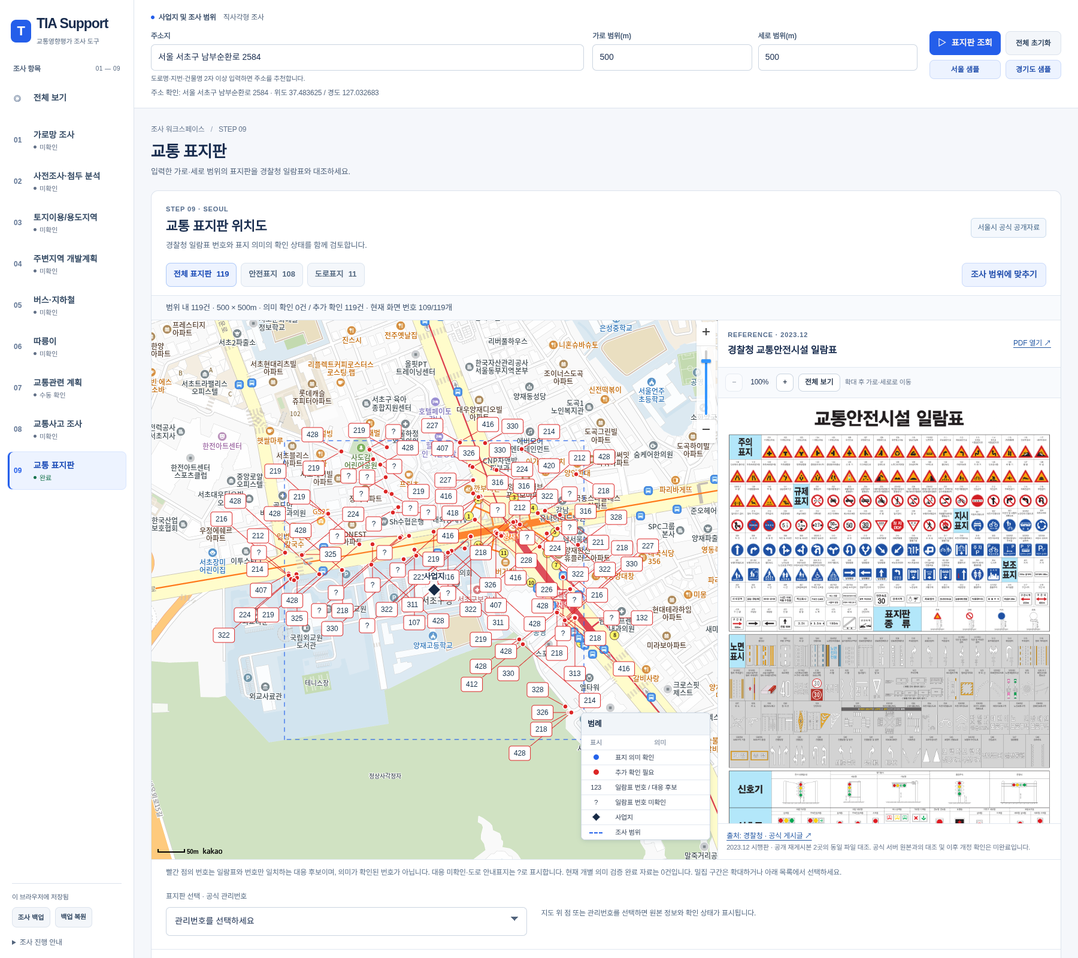
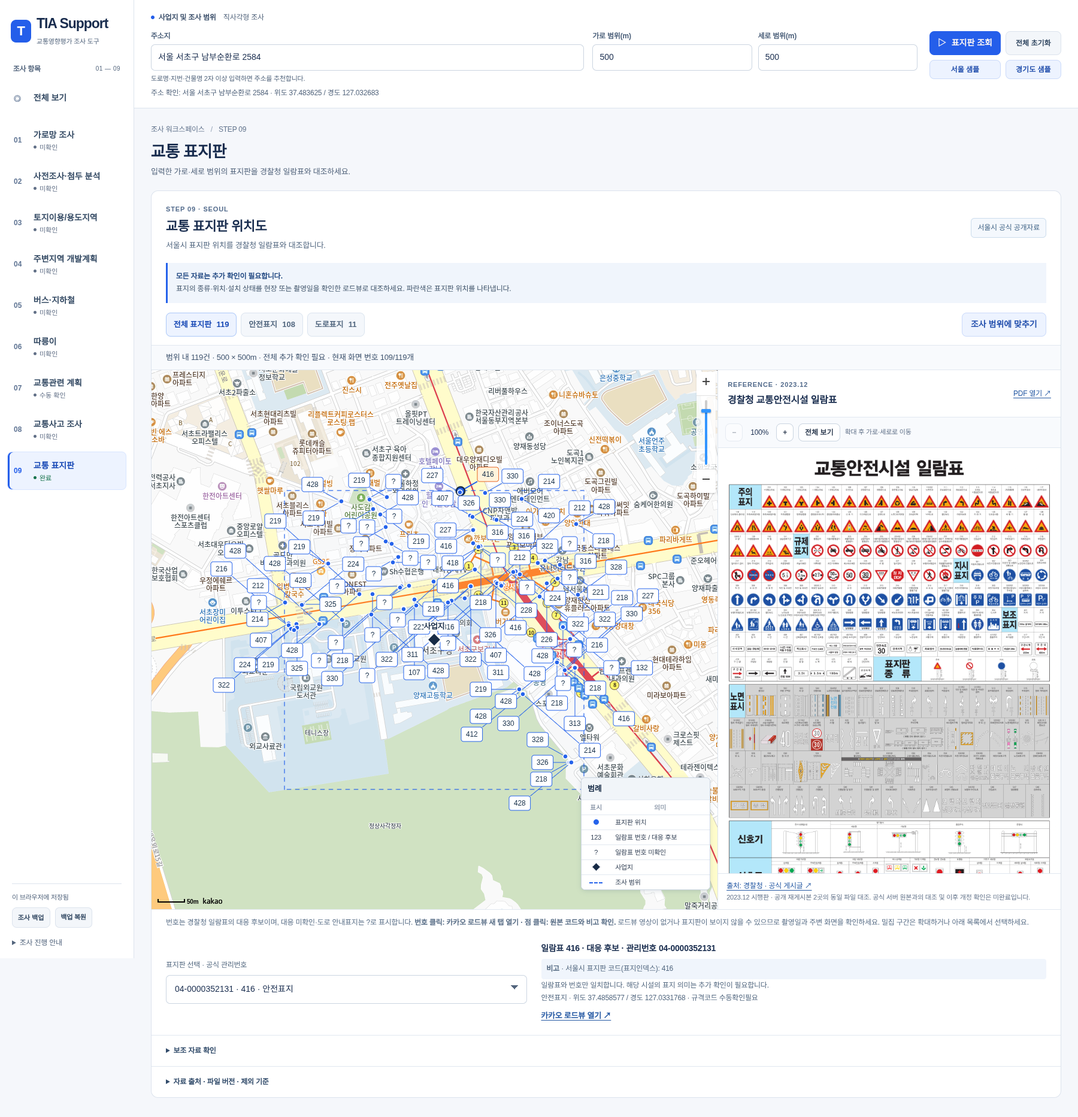
Unify Step 9 sign styling and add Seoul code notes and Roadview links

diff --git a/components/TrafficSignsStep.jsx b/components/TrafficSignsStep.jsx
@@ -41,7 +41,6 @@ export default function TrafficSignsStep({ visible, siteLocation, width, height,
   }, [visible, key, scopeError, siteLocation.lat, siteLocation.lng, width, height, onPhase]);
 
   const points = useMemo(() => (current?.points || []).filter(p => source === 'all' || p.source === source).map(p => classifySign(p)), [current, source]);
-  const verifiedCount = points.filter(p => p.verified).length;
   const selected = points.find(p => p.id === selectedId);
   useEffect(() => {
     if (!visible || !current || !container.current) { setScreen(null); return; }
@@ -85,28 +84,29 @@ export default function TrafficSignsStep({ visible, siteLocation, width, height,
     if (point && mapRef.current && window.kakao) mapRef.current.panTo(new window.kakao.maps.LatLng(point.lat, point.lng));
   };
   return <section className={`panel step-section traffic-signs ${visible ? '' : 'is-hidden'}`} aria-label="STEP 9 교통 표지판">
-    <div className="signs-heading"><div><p className="eyebrow">STEP 09 · SEOUL</p><h2>교통 표지판 위치도</h2><p>경찰청 일람표 번호와 표지 의미의 확인 상태를 함께 검토합니다.</p></div><span className="signs-region">서울시 공식 공개자료</span></div>
+    <div className="signs-heading"><div><p className="eyebrow">STEP 09 · SEOUL</p><h2>교통 표지판 위치도</h2><p>서울시 표지판 위치를 경찰청 일람표와 대조합니다.</p></div><span className="signs-region">서울시 공식 공개자료</span></div>
+    <p className="signs-review-notice"><strong>모든 자료는 추가 확인이 필요합니다.</strong> 표지의 종류·위치·설치 상태를 현장 또는 촬영일을 확인한 로드뷰로 대조하세요. 파란색은 표지판 위치를 나타냅니다.</p>
     <div className="signs-toolbar">
       <div className="signs-filters" role="group" aria-label="표지판 종류">{[['all', '전체 표지판'], ['S', '안전표지'], ['R', '도로표지']].map(([value, label]) => <button type="button" key={value} aria-pressed={source === value} onClick={() => { setSource(value); setSelectedId(''); }}>{label}{current && <span>{current.points.filter(p => value === 'all' || p.source === value).length.toLocaleString('ko-KR')}</span>}</button>)}</div>
       <button type="button" className="secondary" disabled={!screen} onClick={() => fit.current?.()}>조사 범위에 맞추기</button>
     </div>
-    <div className="signs-status" role="status">{scopeError || error || (!current ? '서울 표지판을 조회하고 있습니다…' : `범위 내 ${points.length.toLocaleString('ko-KR')}건 · ${current.scope.width.toLocaleString('ko-KR')} × ${current.scope.height.toLocaleString('ko-KR')}m · 의미 확인 ${verifiedCount.toLocaleString('ko-KR')}건 / 추가 확인 ${(points.length - verifiedCount).toLocaleString('ko-KR')}건`)}{current && screen && ` · 현재 화면 번호 ${layout.labels.length}/${layout.points.length}개`}</div>
+    <div className="signs-status" role="status">{scopeError || error || (!current ? '서울 표지판을 조회하고 있습니다…' : `범위 내 ${points.length.toLocaleString('ko-KR')}건 · ${current.scope.width.toLocaleString('ko-KR')} × ${current.scope.height.toLocaleString('ko-KR')}m · 전체 추가 확인 필요`)}{current && screen && ` · 현재 화면 번호 ${layout.labels.length}/${layout.points.length}개`}</div>
     <div className="signs-workbench">
     <div className="signs-map-frame">
       <div ref={container} className="signs-map" aria-label="서울 교통 표지판 지도" />
       {screen && current && <svg className="signs-overlay" width={screen.width} height={screen.height} aria-label="경찰청 일람표 번호와 인출선">
         {layout.labels.map(p => <line key={p.id} x1={p.x} y1={p.y} x2={Math.max(p.box.x, Math.min(p.x, p.box.x + p.box.w))} y2={Math.max(p.box.y, Math.min(p.y, p.box.y + p.box.h))} stroke={p.color} strokeWidth={p.id === selectedId ? 2 : 1} />)}
-        {layout.points.map(p => <circle key={p.id} data-sign-id={p.id} data-verified={p.verified} cx={p.x} cy={p.y} r={p.id === selectedId ? 7 : 4} fill={p.color} stroke={p.id === selectedId ? '#172b46' : 'white'} strokeWidth={p.id === selectedId ? 2.5 : 1.5} className="signs-dot" onClick={() => setSelectedId(p.id)}><title>{p.label} · {p.verified ? '의미 확인' : '추가 확인 필요'} · 관리번호 {p.managementId}</title></circle>)}
-        {layout.labels.map(p => <g key={p.id} className="signs-callout" onClick={() => setSelectedId(p.id)}>
+        {layout.points.map(p => <circle key={p.id} data-sign-id={p.id} cx={p.x} cy={p.y} r={p.id === selectedId ? 7 : 4} fill={p.color} stroke={p.id === selectedId ? '#172b46' : 'white'} strokeWidth={p.id === selectedId ? 2.5 : 1.5} className="signs-dot" onClick={() => setSelectedId(p.id)}><title>{p.label} · 추가 확인 필요 · {p.sourceCodeRemark} · 관리번호 {p.managementId}</title></circle>)}
+        {layout.labels.map(p => <a key={p.id} className="signs-callout" href={p.roadviewUrl || undefined} target="_blank" rel="noopener noreferrer" aria-label={`${p.label} · 관리번호 ${p.managementId} 카카오 로드뷰 새 탭에서 열기`} onClick={() => setSelectedId(p.id)}>
+          <title>{p.sourceCodeRemark} · 클릭하면 카카오 로드뷰를 새 탭에서 엽니다.</title>
           <rect x={p.box.x} y={p.box.y} width={p.box.w} height={p.box.h} rx="4" fill={p.id === selectedId ? '#eef2f7' : '#fff'} stroke={p.id === selectedId ? '#172b46' : p.color} />
           <text x={p.box.x + p.box.w / 2} y={p.box.y + 16} textAnchor="middle" fill="#18314b">{p.label}</text>
-        </g>)}
+        </a>)}
         <g transform={`translate(${screen.site.x},${screen.site.y})`}><path d="M0 -12L12 0L0 12L-12 0Z" fill="#172b46" stroke="white" strokeWidth="3" /><text y="-18" textAnchor="middle" className="signs-site-label">사업지</text></g>
       </svg>}
       {(!screen || mapError) && <div className="signs-map-message"><strong>{mapError ? '지도 연결 확인이 필요합니다' : current ? '지도를 불러오고 있습니다' : '주소와 조사 범위를 확인해 주세요'}</strong><p>{mapError || scopeError || error || '서울시 표지판 위치를 큰 지도에서 확인합니다.'}</p>{mapError && <button type="button" onClick={() => setRetryMap(v => v + 1)}>지도 다시 연결</button>}</div>}
       <div className="signs-map-legend"><table><caption>범례</caption><thead><tr><th scope="col">표시</th><th scope="col">의미</th></tr></thead><tbody>
-        <tr><td><i className="signs-confirmed" aria-label="파란 점" /></td><td>표지 의미 확인</td></tr>
-        <tr><td><i className="signs-unconfirmed" aria-label="빨간 점" /></td><td>추가 확인 필요</td></tr>
+        <tr><td><i className="signs-location" aria-label="파란 점" /></td><td>표지판 위치</td></tr>
         <tr><td>123</td><td>일람표 번호 / 대응 후보</td></tr>
         <tr><td>?</td><td>일람표 번호 미확인</td></tr>
         <tr><td><i className="signs-site" /></td><td>사업지</td></tr>
@@ -115,9 +115,14 @@ export default function TrafficSignsStep({ visible, siteLocation, width, height,
     </div>
     {visible && <PoliceSignChart />}
     </div>
-    <p className="signs-hint">빨간 점의 번호는 일람표와 번호만 일치하는 대응 후보이며, 의미가 확인된 번호가 아닙니다. 대응 미확인·도로 안내표지는 ?로 표시합니다. 현재 개별 의미 검증 완료 자료는 0건입니다. 밀집 구간은 확대하거나 아래 목록에서 선택하세요.</p>
+    <p className="signs-hint">번호는 경찰청 일람표의 대응 후보이며, 대응 미확인·도로 안내표지는 ?로 표시합니다. <strong>번호 클릭: 카카오 로드뷰 새 탭 열기 · 점 클릭: 원본 코드와 비고 확인.</strong> 로드뷰 영상이 없거나 표지판이 보이지 않을 수 있으므로 촬영일과 주변 화면을 확인하세요. 밀집 구간은 확대하거나 아래 목록에서 선택하세요.</p>
     {current && <div className="signs-detail"><label><span>표지판 선택 · 공식 관리번호</span><select value={selected?.id || ''} onChange={e => choose(e.target.value)}><option value="">{points.length ? '관리번호를 선택하세요' : '범위 내 공개자료 없음'}</option>{points.map(p => <option value={p.id} key={p.id}>{p.managementId} · {p.label} · {SOURCE_NAMES[p.source]}</option>)}</select></label>
-      <div aria-live="polite">{selected ? <><strong>{selected.policeCode ? `일람표 ${selected.policeCode}${selected.verified ? ' · 의미 확인' : ' · 대응 후보'}` : '수동확인필요'} · 관리번호 {selected.managementId}</strong><p>{selected.reason}</p><p>{SOURCE_NAMES[selected.source]} · 위도 {selected.lat} / 경도 {selected.lng}</p><p>{selected.source === 'S' ? `표지인덱스 ${selected.sourceIndex || '수동확인필요'} · 규격코드 ${selected.specification || '수동확인필요'}` : `표지종별 ${selected.sourceIndex || '수동확인필요'}`}</p>{selected.evidence && <p>확인 근거: {selected.evidence}</p>}</> : <p>지도 위 점 또는 관리번호를 선택하면 원본 정보와 확인 상태가 표시됩니다.</p>}</div></div>}
+      <div aria-live="polite">{selected ? <><strong>{selected.policeCode ? `일람표 ${selected.policeCode} · 대응 후보` : '수동확인필요'} · 관리번호 {selected.managementId}</strong><p className="signs-source-remark"><b>비고</b> · {selected.sourceCodeRemark}</p><p>{selected.reason}</p><p>{SOURCE_NAMES[selected.source]} · 위도 {selected.lat} / 경도 {selected.lng}{selected.source === 'S' && ` · 규격코드 ${selected.specification || '수동확인필요'}`}</p>{selected.roadviewUrl && <a className="signs-roadview-link" href={selected.roadviewUrl} target="_blank" rel="noopener noreferrer">카카오 로드뷰 열기 ↗</a>}</> : <p>지도 위 점 또는 관리번호를 선택하면 서울시 원본 코드가 비고에 표시됩니다.</p>}</div></div>}
+    <details className="signs-provenance signs-secondary-sources"><summary>보조 자료 확인</summary>
+      <p><a href="https://www.data.go.kr/data/15028194/standard.do" target="_blank" rel="noopener noreferrer">전국도로안전표지 표준데이터 ↗</a> · 지역별 공개 안전표지 자료를 대조하는 참고 경로입니다. 서울 수록 범위와 개별 표지번호의 대응은 미확인입니다.</p>
+      <p><a href="https://www.safetyzone.go.kr/mapPtl/ptl/mapMain.do" target="_blank" rel="noopener noreferrer">경찰청 보호구역 통합관리시스템 ↗</a> · 어린이·노인·장애인 보호구역 시설 현황 참고용입니다. 공개 안내의 API는 보호구역 지정 현황이며 개별 표지판 API는 확인되지 않았습니다.</p>
+      <p>두 자료는 서울시 원본을 대체하거나 자동으로 합산하지 않습니다. 개별 시설의 위치·표지종류·기준일을 대조한 뒤 활용하세요.</p>
+    </details>
     {current && <details className="signs-provenance"><summary>자료 출처 · 파일 버전 · 제외 기준</summary>{current.manifest.sources.map(s => <p key={s.key}><a href={s.url} target="_blank" rel="noreferrer">{s.name}</a> · 서울특별시 · 파일 버전 {s.fileVersion} · 시설 기준일 미확인 · {s.license}</p>)}<p>안전표지 좌표 불일치 {current.manifest.excluded.safety_coordinate_conflict || 0}건·중복 관리번호 {current.manifest.excluded.safety_duplicate_or_missing_id || 0}건, 도로표지 중복 {current.manifest.excluded.road_duplicate_or_missing_id || 0}건·검토 영역 밖 {current.manifest.excluded.road_outside_review_envelope || 0}건은 제외했습니다. 표지인덱스는 표지판 내용을 뜻하는 번호로 해석하지 않습니다.</p><p>개수는 공개자료 레코드 수이며 두 출처 간 동일 시설의 중복 여부는 확정하지 않았습니다. 공개자료에 없는 시설의 부재를 의미하지 않습니다. 파일 버전은 현장 조사일과 다르며, 실제 설치 현황은 확인이 필요합니다.</p></details>}
   </section>;
 }

diff --git a/lib/signClassification.js b/lib/signClassification.js
@@ -1,24 +1,24 @@
 import { POLICE_SIGN_CODES } from './policeSignCodes.js';
 
 const codes = new Set(POLICE_SIGN_CODES);
-// Only individually reviewed evidence belongs here. Number equality, a sample
-// remark, or a shared sourceIndex never verifies other records. No records have
-// yet met this standard. Bind reviews to identity, raw code and coordinates so
-// changed source records cannot silently inherit a previous confirmation.
-const reviewedSigns = {};
-export function classifySign(point, reviews = reviewedSigns) {
-  const review = reviews[point.id];
-  const verified = point.source === 'S' && review &&
-    review.sourceIndex === point.sourceIndex && review.lat === point.lat && review.lng === point.lng &&
-    codes.has(review.policeCode) && Boolean(review.evidence?.trim()) && Boolean(review.reviewedAt?.trim());
+// All source records require additional checking. Color denotes a sign location,
+// never verification. Preserve the raw Seoul code in a separate note.
+export const SIGN_COLOR = '#2563eb';
+export function signRoadviewUrl(point) {
+  if (point.lat == null || point.lng == null || String(point.lat).trim() === '' || String(point.lng).trim() === '') return null;
+  const lat = Number(point.lat), lng = Number(point.lng);
+  if (!Number.isFinite(lat) || !Number.isFinite(lng) || Math.abs(lat) > 90 || Math.abs(lng) > 180) return null;
+  return `https://map.kakao.com/link/roadview/${lat},${lng}`;
+}
+export function classifySign(point) {
   const candidate = point.source === 'S' && codes.has(point.sourceIndex) ? point.sourceIndex : null;
-  const policeCode = verified ? review.policeCode : candidate;
+  const policeCode = candidate;
   return {
     ...point, managementId: point.label, label: policeCode || '?', policeCode,
-    verified: Boolean(verified), color: verified ? '#2563eb' : '#dc2626',
-    reason: verified ? '개별 근거로 표지 의미 확인' : point.source === 'R' ? '도로 안내표지는 경찰청 안전표지 일람표의 대응 대상이 아닙니다.'
+    color: SIGN_COLOR, roadviewUrl: signRoadviewUrl(point),
+    sourceCodeRemark: `${point.source === 'S' ? '서울시 표지판 코드(표지인덱스)' : '서울시 표지종별'}: ${point.sourceIndex || '수동확인필요'}`,
+    reason: point.source === 'R' ? '도로 안내표지는 경찰청 안전표지 일람표의 대응 대상이 아닙니다.'
       : candidate ? '일람표와 번호만 일치합니다. 해당 시설의 표지 의미는 추가 확인이 필요합니다.'
         : '경찰청 표지번호와의 대응이 확인되지 않았습니다. 원본 인덱스를 임의 변환하지 않습니다.',
-    evidence: verified ? review.evidence : null,
   };
 }

diff --git a/app/workspace.css b/app/workspace.css
@@ -333,7 +333,12 @@ body:has(.research-workspace) { background: #f5f7fb; }
 .signs-map-legend th { color: #64748b; font-weight: 500; }
 .signs-map-legend th:first-child, .signs-map-legend td:first-child { text-align: center; width: 48px; }
 .signs-map-legend i { display: inline-block; width: 9px; height: 9px; border-radius: 50%; }
-.signs-confirmed { background: #2563eb; }.signs-unconfirmed { background: #dc2626; }
+.signs-location { background: #2563eb; }
+.signs-review-notice { margin: 0 24px 16px; padding: 12px 14px; background: #f0f5fc; border-left: 3px solid #2563eb; color: #40546a; font-size: 12px; line-height: 1.8; }
+.signs-review-notice strong { display: block; color: #234a83; }
+.signs-callout:focus-visible rect { stroke: #172b46; stroke-width: 3px; }
+.signs-source-remark { background: #f0f5fc; padding: 6px 9px; margin-top: 6px; border-radius: 4px; overflow-wrap: anywhere; }
+.signs-roadview-link { display: inline-block; margin-top: 8px; color: #2458a3; font-size: 13px; font-weight: 600; text-decoration: underline; text-underline-offset: 3px; }
 .signs-map-legend .signs-site { background: #172b46; border-radius: 0; transform: rotate(45deg); }
 .signs-map-legend .signs-boundary { width: 22px; height: 0; border-radius: 0; border-top: 2px dashed #2563eb; vertical-align: middle; }
 .police-chart { display: flex; flex-direction: column; height: clamp(620px, 68vh, 900px); min-width: 0; border-left: 1px solid #dbe4ee; background: #f8fafd; }
@@ -364,6 +369,7 @@ body:has(.research-workspace) { background: #f5f7fb; }
   .signs-heading { padding: 18px 14px; align-items: flex-start; }
   .signs-region { display: none; }
   .signs-toolbar { padding: 0 14px 12px; }
+  .signs-review-notice { margin-inline: 14px; }
   .signs-status, .signs-hint, .signs-provenance { padding-inline: 14px; }
   .signs-detail { grid-template-columns: minmax(0, 1fr); padding-inline: 14px; gap: 12px; }
   .signs-map-frame { height: 580px; }

diff --git a/docs/step9-verification.md b/docs/step9-verification.md
@@ -1,12 +1,14 @@
 # STEP 9 검증 기록
 
-2026-10-08, `feat/step9-seoul-sign-map` 구현 확인.
+2026-10-12, `feat/step9-seoul-sign-map` 구현 확인.
 
-- `npm run build`: ESLint, 단위 테스트 245개, Next.js 프로덕션 빌드 통과.
+- `npm run build`: ESLint, 단위 테스트 246개, Next.js 프로덕션 빌드 통과.
 - `scripts/check_workspace_ui.mjs`: 기존 STEP 1~8 전환, 지도 DOM 유지/분할/전체화면, 도로 편집, XLSX 4시트 출력, 백업·복원·재접속 저장, 7개 화면 너비, 모바일 embed, 별도 계산기 로그인 검증 통과.
 - `scripts/check_step9_ui.mjs`: 실제 주소 검색, 카카오 지도 타일, 경찰청 일람표 후보 번호·미확인 ?, 안전표지/도로표지 필터, 점 선택, STEP 5/전체 보기에서 표지판 숨김과 추가 요청 없음, STEP 9 재진입, 잘못된 범위에서 이전 결과 제거, 모바일 가로 넘침 없음, 기본 범위 3,735개 점 표시 검증 통과. 브라우저 오류와 HTTP 실패 없음.
-- 새 표시 규칙: 번호 일치만으로 파란 점이 되지 않음, 접미사·노면표시·미등록 코드의 임의 치환 방지, 시설별 확인 근거와 원본 좌표·코드 일치 조건을 테스트했다. 서초구 119건 모두 빨강(후보 번호 95건 / `?` 24건).
-- 실제 브라우저: 일람표가 지도 오른쪽에 표시되고 이미지/PDF가 정상 로드됨, 확대와 전체 보기, 지도 오른쪽 아래 `범례` 표 위치, 라벨과 범례의 겹침 방지, 선택 후 빨간 색 유지, 다른 STEP에서 일람표 제거를 확인했다. 좁은 화면은 지도 아래에 일람표를 표시한다.
+- 새 표시 규칙: 모든 점/인출선은 파랑이며 색이 검증 완료를 뜻하지 않음. 모든 자료의 추가 확인 안내, 서울시 원본 코드 비고 보존, 접미사·노면표시·미등록 코드의 임의 치환 방지를 검증했다. 서초구 119건 모두 파랑(후보 번호 95건 / `?` 24건).
+- 실제 브라우저: 일람표가 지도 오른쪽에 표시되고 이미지/PDF가 정상 로드됨, 확대와 전체 보기, 지도 오른쪽 아래 `범례` 표 위치, 라벨과 범례의 겹침 방지, 선택 후 파란 색 유지, 다른 STEP에서 일람표 제거를 확인했다. 좁은 화면은 지도 아래에 일람표를 표시한다.
+- 로드뷰: 공식 URL 규칙의 좌표 순서와 유효성 검사, 지도 번호 클릭 후 실제 새 탭 생성, 선택 시설의 좌표 전달 및 상세 링크/비고 일치를 검증했다. 새 탭 도착 페이지는 테스트용 응답이며 카카오 로드뷰 영상 존재·촬영일·표지판 판독까지 확인한 것은 아니다.
+- 보조자료: 전국도로안전표지/보호구역 사이트는 참고 링크와 적용 범위를 표시. 2026-10-12 원문 재접속 503으로 개별 시설 대조는 미완료다. 추가 후보인 정밀도로지도도 원본 미확보이며 [조사 기록](sign-supplementary-sources-2026-10-12.md)에 출처와 한계를 기록했다.
 - 빌드된 API: 좌표 누락/문자열, 범위 0은 400 응답. 정상 조회는 200. 서버 배포 추적 파일에 스냅샷과 manifest 포함 확인.
 
 실제 검색: **서울 서초구 남부순환로 2584**, 주소 검색 결과 위도 37.483625 / 경도 127.032683.
@@ -21,7 +23,7 @@
 예시 이미지는 디자인 목업이 아닌 로컬 프로덕션 빌드의 실제 브라우저 화면이다. 환경에 서버 지도 키가 없어 운영 페이지에서 공개된 브라우저용 지도 설정을 로컬 빌드에 사용했다. 카카오 허용 도메인 제약을 충족하도록 격리된 브라우저에서 운영 도메인의 페이지/정적 자산/표지판 API 요청을 로컬 서버로 연결했다. 주소 검색과 지도 SDK·타일은 실제 운영/공식 응답이다. 운영 사이트 코드를 배포하거나 운영 데이터를 수정하지 않았다. 키는 저장소와 이 문서에 포함하지 않는다.
 
 ```sh
-node scripts/check_step9_ui.mjs http://127.0.0.1:3013 --production-origin
+node scripts/check_step9_ui.mjs http://127.0.0.1:3014 --production-origin
 ```
 
 ![서울 서초구 남부순환로 2584, STEP 9, 500×500m](images/step9-seocho-500m.png)

diff --git a/docs/sign-supplementary-sources-2026-10-12.md b/docs/sign-supplementary-sources-2026-10-12.md
@@ -1,0 +1,30 @@
+# STEP 9 공개 보조자료 및 로드뷰 재검토
+
+확인일: 2026-10-12 (한국시간). 직접 기관 연락 없이 공개된 자료만 검토했다. 이번 결과는 자동 대조 완료나 새로운 표지판 레코드 확보를 의미하지 않는다.
+
+| 자료 | 공식 공개 안내에서 확인한 범위 | 이번 접근 결과 | 앱 반영 |
+|---|---|---|---|
+| 전국도로안전표지 표준데이터 | 도로별 주의·규제·지시 표지의 위치 관련 자료 | 공식 목록 검색 색인은 확인, 상세 원문 503. 서울 수록 범위·실제 좌표/표지번호 컬럼 및 최신 파일 미확보 | 보조자료 링크, 서울 범위와 번호 대응 미확인 안내 |
+| 경찰청 보호구역 통합관리시스템 | 어린이·노인·장애인 보호구역 교통시설물 설치 현황 도면. 공개 보도자료의 API 대상은 보호구역 지정 현황 | 공식 지도 503. 개별 표지판 좌표·일람표 번호 조회 및 다운로드/API는 미검증 | 보조자료 링크와 보호구역 중심의 적용 범위 안내 |
+| 국토지리정보원 정밀도로지도 — 추가 후보 | 공식 안내 검색 색인에 교통안전표지·노면표시·신호기 등 3차원 표지시설 포함을 명시 | 공식 소개 페이지 및 설명 PDF 503. 서울 사업지 구간 포함 여부, 실제 레이어/속성 코드, 제공조건/신청 절차 미검증 | 연구 후보로 기록. 미확보 데이터를 지도에 통합하지 않음 |
+| 서울시 도로별 도로표지 정보 | 도로 안내표지 자료 | 공식 검색 색인 확인. 현재 안전표지와는 기능·코드 체계가 다른 도로 안내자료이며 새로운 안전표지 검증 근거로 사용하지 않음 | 기존 안전표지/도로표지 구분 유지 |
+
+503은 이 조사 환경의 접속 결과이며 사이트가 일반 사용자에게도 중단되었다는 의미가 아니다. 검색엔진의 생성형 요약을 개별 시설 원본 데이터로 사용하지 않았다. 인증 또는 접속 제한을 우회하지 않았다.
+
+## 공식 참고 경로
+
+- 전국도로안전표지: https://www.data.go.kr/data/15028194/standard.do
+- 보호구역 지도: https://www.safetyzone.go.kr/mapPtl/ptl/mapMain.do
+- 경찰청 서비스 개시 보도자료: https://www.police.go.kr/user/bbs/BD_selectBbs.do?q_bbsCode=1002&q_bbscttSn=20251218072753613
+- 정밀도로지도 안내: https://map.ngii.go.kr/ms/pblictn/preciseRoadMap.do
+- 서울시 도로별 도로표지: https://data.seoul.go.kr/dataList/OA-15015/S/1/datasetView.do
+
+향후 실제 자료 확보 시에는 같은 시설 여부를 관리번호·좌표·표지종류·방향·기준일로 대조해야 한다. 근접 좌표 또는 번호의 일치만으로 합치지 않는다. 보조자료가 있어도 모든 자료의 추가 확인 전제는 유지한다.
+
+## 카카오 로드뷰
+
+공식 문서 https://apis.map.kakao.com/web/guide/#roadviewurl 를 HTTP 200으로 읽어 `https://map.kakao.com/link/roadview/위도,경도` 형식을 확인했다. 좌표 또는 장소 ID로 해당 위치의 로드뷰를 실행하는 공식 링크다.
+
+앱은 SVG 번호 링크와 선택 상세의 링크에 해당 표지 레코드의 좌표를 전달하고 `target=_blank`, `rel=noopener noreferrer`로 연다. 좌표 누락·공란·비정상 숫자는 링크를 생성하지 않는다. 위치의 로드뷰 실행과 그 화면에서 해당 표지판을 판독할 수 있는지는 별개이며, 촬영일·방향·가림·영상 부재를 사용자에게 안내한다.
+
+단위검증은 좌표 순서/잘못된 좌표 처리/원본 코드 보존을 확인한다. 브라우저 검증은 테스트용 도착 페이지를 사용해 실제 새 탭 생성 및 클릭한 시설의 좌표 전달을 확인한다. 실제 로드뷰 사진을 판독하거나 모든 시설의 영상 존재를 검증했다는 뜻이 아니다. 카카오 지도/주소 검색/지도 타일은 기존 실제 응답으로 계속 검증한다.

diff --git a/docs/sign-code-verification/README.md b/docs/sign-code-verification/README.md
@@ -79,7 +79,7 @@
 
 원본·검색 결과·접속 실패 응답·PDF 추출 텍스트·분석 스크립트는 조사 환경 `/workspace/sign-code-verification-2026-10-08/`에 보관했다. 최초 검증 커밋에는 작은 비교표·집계·비고 증거와 이 보고서만 포함했다. 이후 사용자의 앱 내 일람표 표시 요청에 따라 동일 재게시 PDF와 그 렌더링을 `public/reference/`에 추가했다. 파일 해시·변환 방법은 `chart-assets.json`에 기록했다. `verify.py`는 PDF 글자 위치 및 코드 집합의 수동 대조 단언문을 포함하며, 서울 레코드는 앱 스냅샷의 관리번호로 제한해 집계한다.
 
-## 앱 표시 정책 — PR #3 후속 구현
+## 이전 앱 표시 정책 — 2026-10-08 (아래 10월 12일 정책으로 대체)
 
 사용자가 **의미까지 확인된 자료만 파란 점, 나머지는 빨간 점**을 선택했다.
 
@@ -89,3 +89,14 @@
 - 서초구 예시 119건은 모두 빨강: 후보 번호 95건, `?` 24건(안전표지 13 + 도로표지 11). 비고의 일부 일치 사례를 전체 코드의 확정 분류로 확장하지 않는다.
 - 왼쪽 카카오 지도 / 오른쪽 확대 가능한 일람표. 좁은 화면은 지도 아래에 일람표를 배치한다. 지도 오른쪽 아래 표의 제목은 `범례`. 선택해도 확인 상태의 색은 유지한다.
 - 표시 일람표는 **2023.12 시행판**이다. 공개 재게시본 2곳이 동일함을 확인했으며 경찰청 서버 원본·이후 개정 검증은 미완료라는 사실을 앱에도 표시한다.
+
+## 현재 앱 표시 정책 — 2026-10-12
+
+사용자가 모든 자료를 추가 확인 대상으로 전제하고 단일 색상을 요청했다. 아래 정책이 이전 파랑/빨강 상태 구분을 대체한다.
+
+- 서울시 좌표·관리번호·원본 인덱스를 유지한다. 개별 선택 상세의 **비고**에 `서울시 표지판 코드(표지인덱스): 220-1`처럼 원문을 표시한다. 도로 안내표지는 `서울시 표지종별`로 구분한다. 이 비고는 원본 코드 보존을 위한 앱 표시이며, 원본 DBF의 자유서술 RMK를 새로 수집한 것은 아니다.
+- 지도 점과 인출선은 모두 파랑(#2563eb)이다. 색은 표지판 위치만 나타내며 확인 완료를 의미하지 않는다. 제목 아래에 **모든 자료는 추가 확인이 필요합니다**를 상시 안내한다.
+- 일람표와 번호가 문자상 동일한 항목만 대응 후보 번호로 표시한다. 미확인·도로 안내표지는 `?`를 유지하며 접미사 제거 등 임의 변환을 하지 않는다.
+- 지도 번호를 클릭하면 해당 레코드 위도·경도를 담은 카카오 공식 로드뷰 링크를 새 탭에서 연다. 점 클릭은 상세 선택이며 상세에도 로드뷰 링크가 있다. API 키 추가나 별도 외부 데이터 수집은 없다.
+- 로드뷰 링크는 위치 조회를 지원한다. 촬영 영상 유무, 표지판 가시성, 방향, 촬영일 및 최신 현장 상태를 보증하지 않는다.
+- [보조자료 재검토](../sign-supplementary-sources-2026-10-12.md): 전국도로안전표지 표준데이터와 경찰청 보호구역 통합관리시스템을 재확인했다. 원문 접속은 503으로 개별 시설 대조는 미완료이며 앱에는 참고 링크와 자료 범위를 표시한다. 원본 좌표를 대체하거나 개수를 합산하지 않는다.
